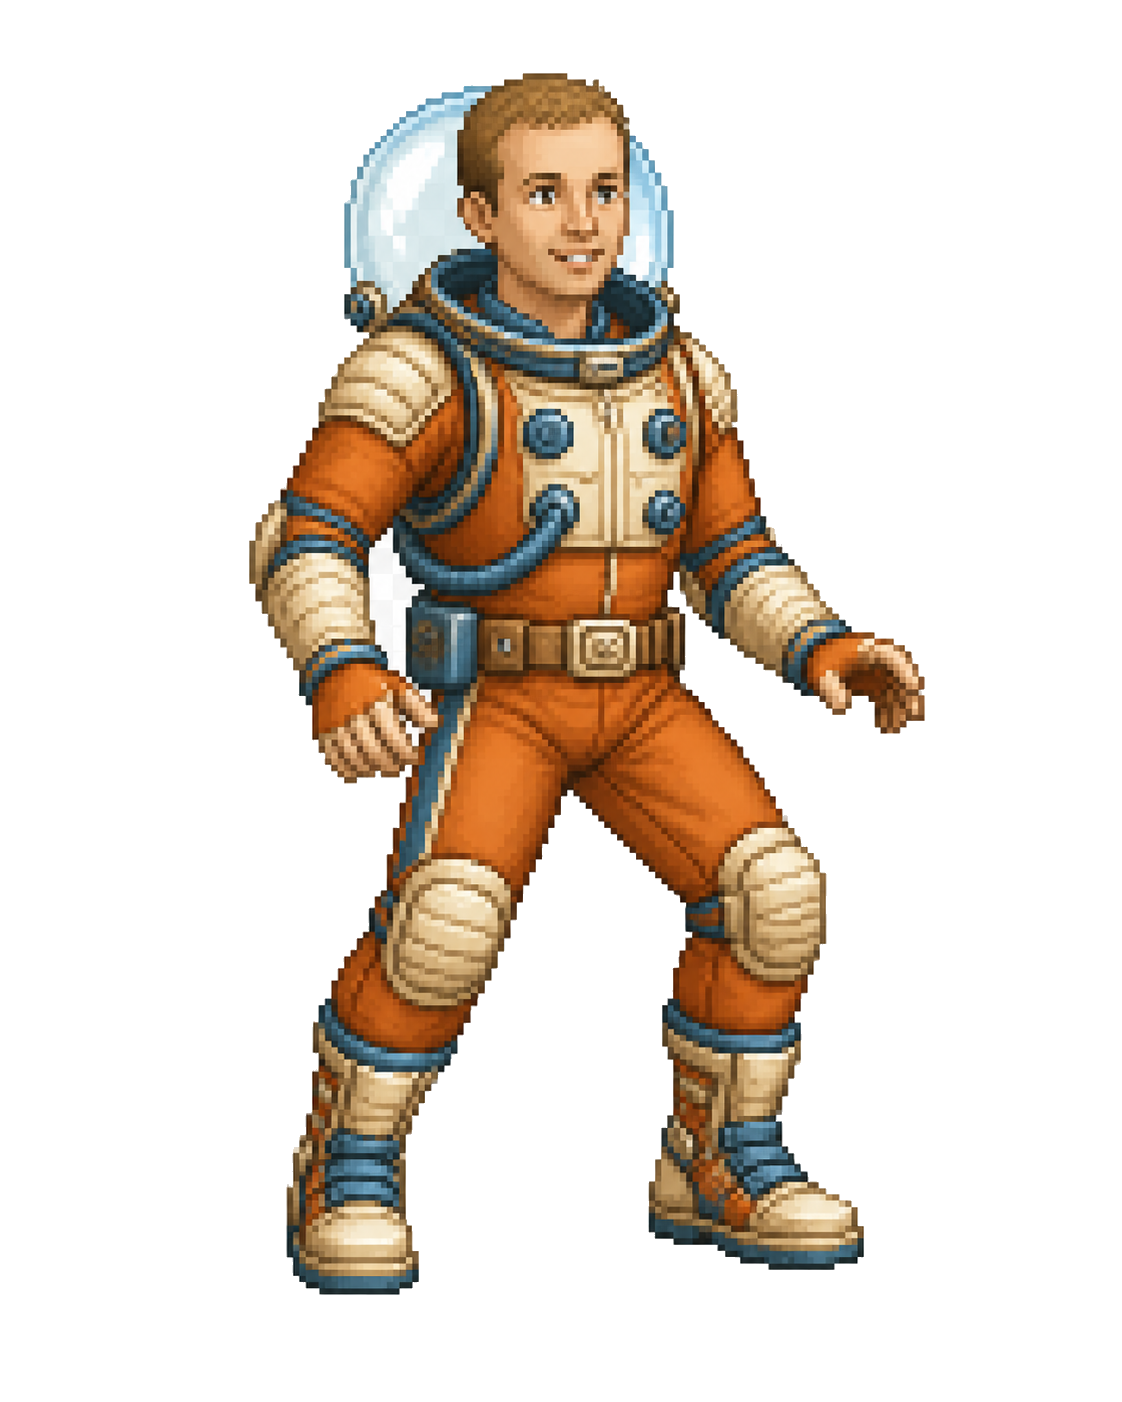
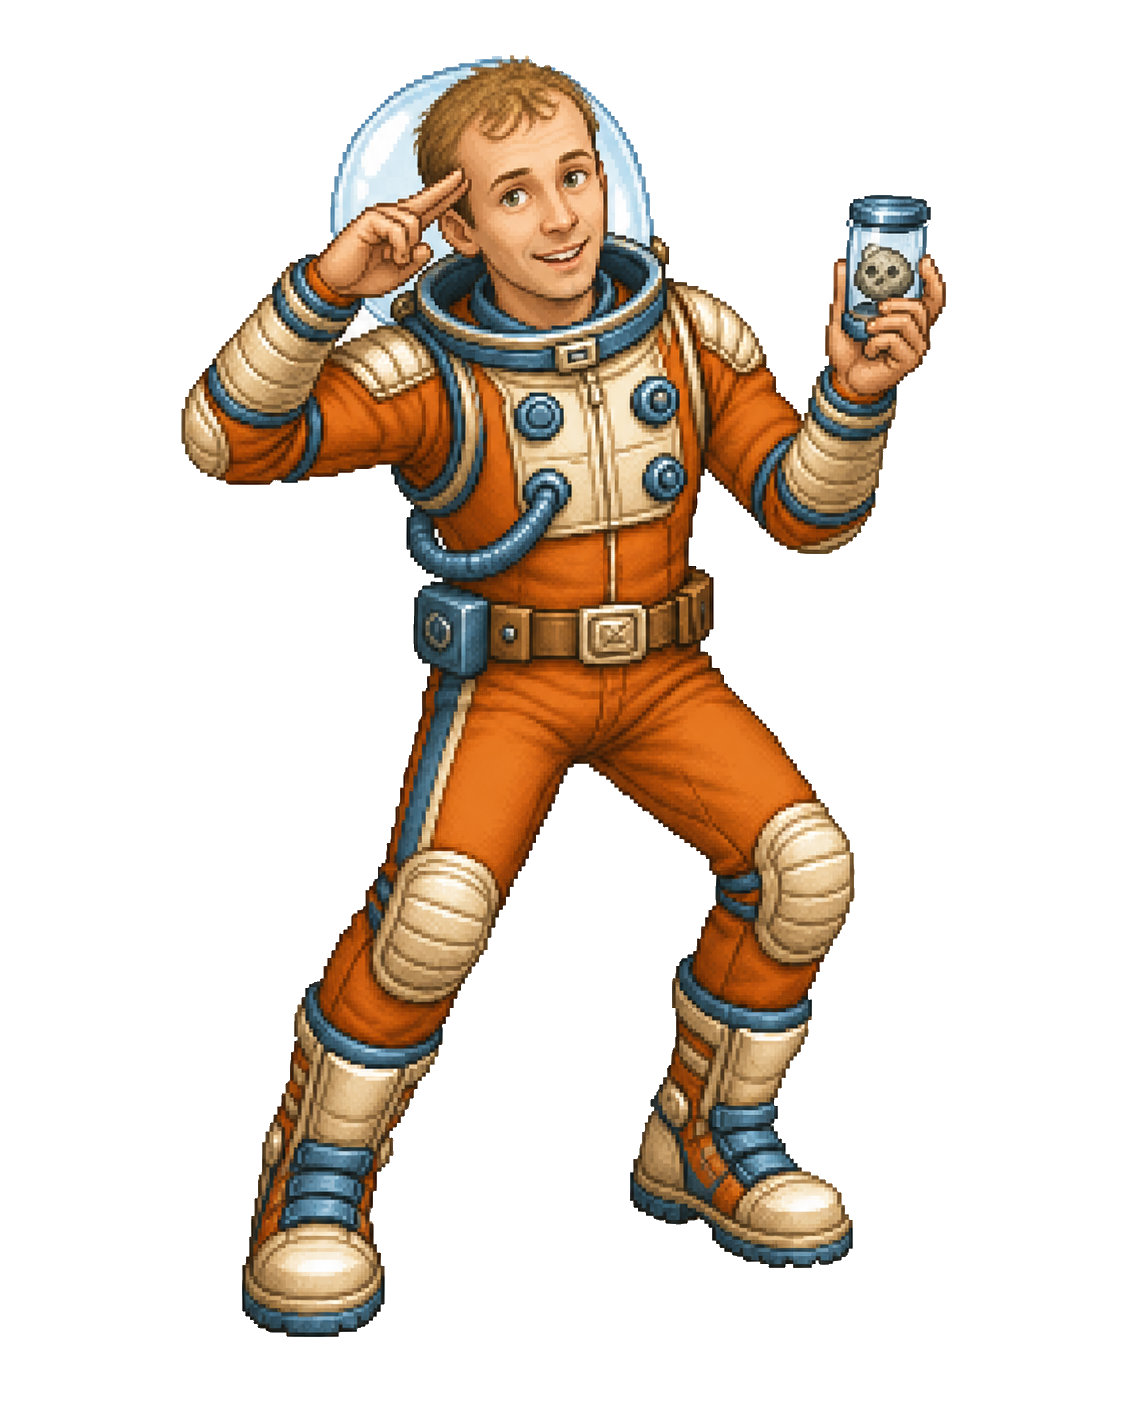
Améliore JB et corrige la transparence des personnages

Changed region(s): [[0.156, 0.0307, 0.8422, 0.9508]]

diff --git a/game.js b/game.js
@@ -4,7 +4,7 @@ const icons={
   green:`<svg class="med-icon" viewBox="0 0 48 48" aria-label="Bistouri"><path d="M7 41l3 2 19-21-3-4z"/><path d="M26 18L39 2v5c-1 6-5 12-10 15z" fill="white"/><path d="M10 39l17-19"/></svg>`,
   blue:`<svg class="med-icon" viewBox="0 0 48 48" aria-label="Seringue"><path d="M14 29l15-15 7 7-15 15z"/><path d="M33 18L44 7M10 25l5 5M20 35l5 5M17 33L9 41M5 37l8 8"/><path d="M19 29l4 4M22 26l4 4M25 23l4 4"/></svg>`
 };
-const CHARACTERS=[['Pascal','pascal-pirate.png'],['Mathieu','mathieu-luchador.png'],['Pierre','pierre-halloween.png'],['Adela','adela-egyptienne.png'],['JB','jb-cosmonaute.png'],['Romain','romain-poulet.png'],['Natacha','natacha-princesse.png'],['Fanny','fanny-exploratrice.png'],['Félix','felix-cyborg.png'],['Youri','youri-paladin.png'],['Quentin','quentin-dictateur.png'],['Nicolas','nicolas-vigilante.png'],['Yannick','yannick-cardinal.png'],['Cecilia','cecilia-infirmiere.png'],['Thibault','thibault-aventurier.png'],['Polo','polo-dandy.png'],['Édouard','edouard-aviateur.png'],['Justin','justin-judoka.png'],['Charlotte','charlotte-cavaliere.png'],["Catoire d’Arabie",'catoire-arabie.png'],['Rémy','remy-shaolin.png'],['Olivier','olivier-policier.png'],['Raphaël','raphael-scaphandrier.png'],['Éric','eric-druide.png'],['Cyril','cyril-alchimiste.png'],['Rémi','remi-berserker.png'],['Thomas','thomas-capitaine-sous-marin.png'],['Benjamin','benjamin-sherif.png'],['Edwin','edwin-zadiste.png'],['Alexandre','alexandre-hercule-satan.png'],['Erwan','erwan-bucheron.png']];
+const CHARACTERS=[['Pascal','pascal-pirate.png'],['Mathieu','mathieu-luchador.png'],['Pierre','pierre-halloween.png'],['Adela','adela-egyptienne.png'],['JB','jb-cosmonaute.png?v=20260819-2'],['Romain','romain-poulet.png'],['Natacha','natacha-princesse.png'],['Fanny','fanny-exploratrice.png'],['Félix','felix-cyborg.png'],['Youri','youri-paladin.png'],['Quentin','quentin-dictateur.png'],['Nicolas','nicolas-vigilante.png'],['Yannick','yannick-cardinal.png'],['Cecilia','cecilia-infirmiere.png'],['Thibault','thibault-aventurier.png'],['Polo','polo-dandy.png'],['Édouard','edouard-aviateur.png'],['Justin','justin-judoka.png'],['Charlotte','charlotte-cavaliere.png'],["Catoire d’Arabie",'catoire-arabie.png'],['Rémy','remy-shaolin.png'],['Olivier','olivier-policier.png?v=20260819-2'],['Raphaël','raphael-scaphandrier.png?v=20260819-2'],['Éric','eric-druide.png'],['Cyril','cyril-alchimiste.png'],['Rémi','remi-berserker.png'],['Thomas','thomas-capitaine-sous-marin.png'],['Benjamin','benjamin-sherif.png'],['Edwin','edwin-zadiste.png'],['Alexandre','alexandre-hercule-satan.png'],['Erwan','erwan-bucheron.png']];
 const $=id=>document.getElementById(id);let socket,state,session=JSON.parse(localStorage.getItem('duel-session')||'null'),lastChatCount=0,reconnectTimer=null,connectionNumber=0;
 const invitedCode=new URLSearchParams(location.search).get('join')?.trim().toUpperCase().replace(/[^A-Z2-9]/g,'').slice(0,5)||'';
 // Un joueur qui actualise son lien d'invitation doit conserver son identité.
